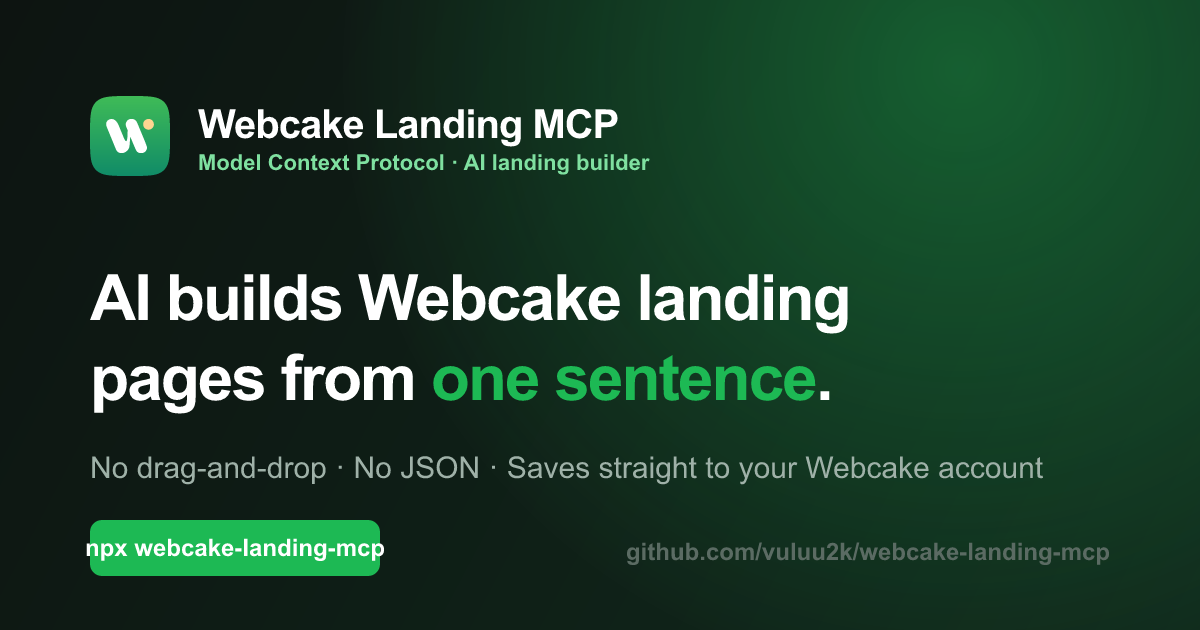
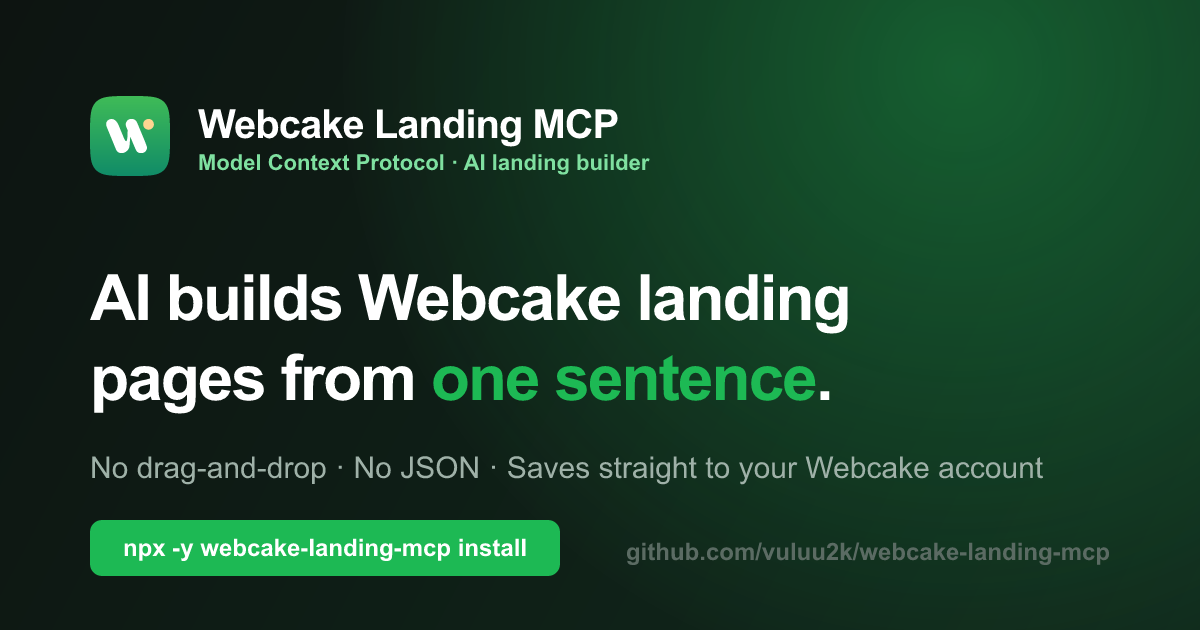
fix ux landing page mcp

Changed region(s): [[0.0617, 0.8143, 0.4933, 0.9349]]

diff --git a/src/web-guide.ts b/src/web-guide.ts
@@ -457,7 +457,7 @@ export function guideHtml(origin: string, lang: Lang = "vi"): string {
 <html lang="${L}"><head>
 <meta charset="utf-8">
 <meta name="viewport" content="width=device-width,initial-scale=1">
-<script>(function(){try{var t=localStorage.getItem('wc-theme');if(t==='dark'||t==='light')document.documentElement.setAttribute('data-theme',t);}catch(e){}})();</script>
+<script>(function(){try{var t=localStorage.getItem('wc-theme');if(t==='dark'||t==='light')document.documentElement.setAttribute('data-theme',t);}catch(e){}try{if('scrollRestoration' in history)history.scrollRestoration='manual';}catch(e){}})();</script>
 <title>${m.title}</title>
 <meta name="description" content="${m.desc}">
 <meta name="keywords" content="${m.keywords}">
@@ -845,6 +845,17 @@ export function guideHtml(origin: string, lang: Lang = "vi"): string {
   paint();
   if(tBtn)tBtn.addEventListener('click',function(){var next=effective()==='dark'?'light':'dark';html.setAttribute('data-theme',next);try{localStorage.setItem('wc-theme',next);}catch(e){}paint();});
 
+  // Restore scroll position exactly across reloads. Native scroll restoration is
+  // disabled (see head script); the browser's own restore drifts a little each
+  // reload as the reveal/hero animations settle. We persist the exact offset per
+  // URL and re-apply it now (DOM is fully parsed — this script is at body end, the
+  // page has no async images, so layout height is already final → no drift).
+  var SKEY='wc-scroll:'+location.pathname+location.search;
+  try{var y=sessionStorage.getItem(SKEY);if(y!==null)window.scrollTo(0,parseFloat(y)||0);}catch(e){}
+  function saveScroll(){try{sessionStorage.setItem(SKEY,String(window.scrollY));}catch(e){}}
+  window.addEventListener('beforeunload',saveScroll);
+  window.addEventListener('pagehide',saveScroll);
+
   // Enable smooth scrolling only after the browser has restored scroll position
   // on (re)load — applying it globally animates that restore into a jerky scroll.
   window.addEventListener('load',function(){requestAnimationFrame(function(){html.classList.add('smooth');});});
@@ -883,8 +894,8 @@ export function ogImageSvg(): string {
   <text x="90" y="400" fill="#ffffff" font-size="64" font-weight="800" letter-spacing="-2">pages from <tspan fill="#1DB954">one sentence</tspan>.</text>
   <text x="90" y="478" fill="#9fb1a8" font-size="30" font-weight="500">No drag-and-drop · No JSON · Saves straight to your Webcake account</text>
   <g transform="translate(90 520)">
-    <rect width="290" height="56" rx="12" fill="#1DB954"/>
-    <text x="145" y="36" fill="#ffffff" font-size="24" font-weight="700" text-anchor="middle">npx webcake-landing-mcp</text>
+    <rect width="470" height="56" rx="12" fill="#1DB954"/>
+    <text x="235" y="36" fill="#ffffff" font-size="24" font-weight="700" text-anchor="middle">npx -y webcake-landing-mcp install</text>
   </g>
   <text x="1110" y="560" fill="#5b6b63" font-size="24" font-weight="600" text-anchor="end">github.com/vuluu2k/webcake-landing-mcp</text>
 </svg>`;